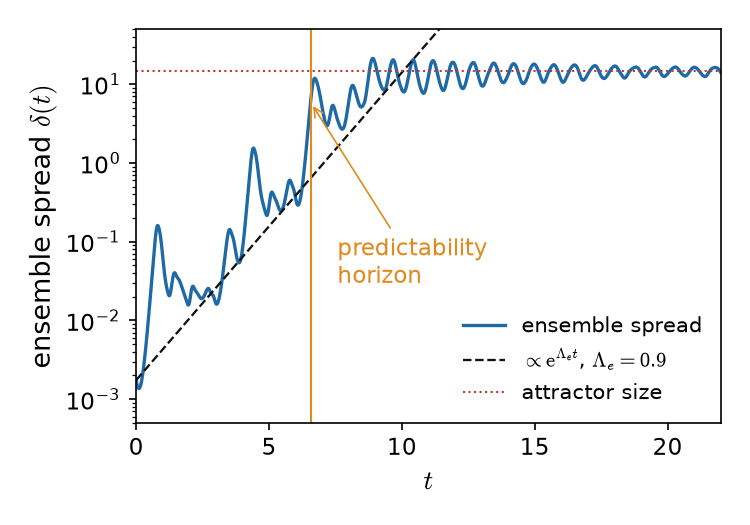
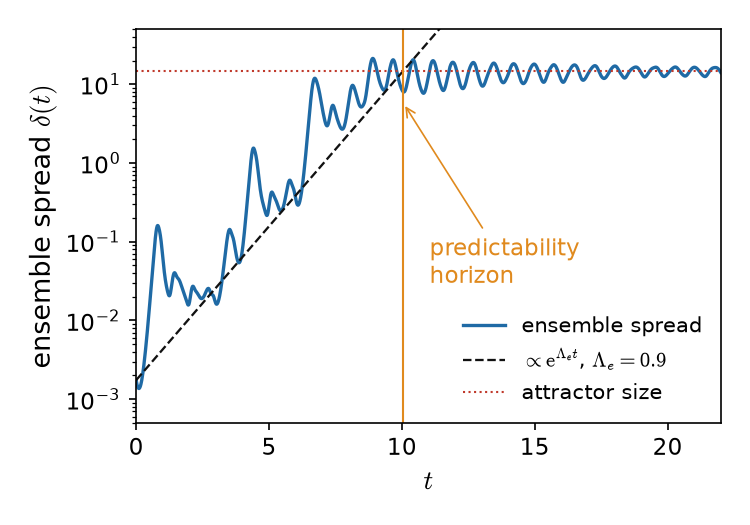
practice: horizon criterion in figure and text agree (PR-1)

diff --git a/creators/python/practice/fig_ensemble.py b/creators/python/practice/fig_ensemble.py
@@ -77,7 +77,9 @@ t = np.linspace(0, T, 2201)
 delta = spread(ensemble(x0, 1e-3, 600, t, seed=2))
 Le = 0.9
 sat = delta[t >= 18].mean()
-th = t[np.argmax(delta > 0.4 * sat)]
+# predictability horizon, as defined in the text: the time at which the
+# exponential growth delta(0) exp(Le t) reaches the size of the attractor
+th = np.log(sat / delta[0]) / Le
 
 fig, ax = plt.subplots(figsize=(5.0, 3.5))
 ax.semilogy(t, delta, color=C_ANA, lw=1.6, label="ensemble spread")
@@ -97,7 +99,14 @@ ax.legend(loc="lower right", fontsize=10)
 fig.tight_layout()
 fig.savefig(OUT / "practice_horizon.png", dpi=150)
 plt.close(fig)
-print(f"horizon: spread saturates at {sat:.2f}, 40% reached at t = {th:.1f}")
+print(f"horizon: delta(0) = {delta[0]:.2e}, spread saturates at {sat:.2f}; "
+      f"t_h = ln(sat/delta0)/Le = {th:.2f}")
+print(f"  (text numbers: ln(10/1e-3)/0.9 = {np.log(10 / 1e-3) / 0.9:.2f}; "
+      f"spread reaches 40% of saturation at t = {t[np.argmax(delta > 0.4 * sat)]:.2f})")
+for t1, t2 in [(0, 2), (2, 4), (4, 6), (6, 8), (8, 10)]:
+    i1, i2 = np.searchsorted(t, [t1, t2])
+    print(f"  growth rate of the spread over t in [{t1}, {t2}]: "
+          f"{np.log(delta[i2] / delta[i1]) / (t2 - t1):.2f}")
 
 # -- interactive: ensemble animation with its spread ------------------------
 tt = np.round(np.arange(0, 14.01, 0.25), 2)

diff --git a/python/practice.md b/python/practice.md
@@ -40,7 +40,7 @@ after which the forecast retains no information about the specific initial condi
 
 Since the initial state is never known exactly, the honest response is to abandon the single deterministic forecast and to propagate instead a whole *cloud* of initial conditions, each an equally plausible estimate of the true state. This is the idea of *ensemble forecasting*. Rather than one trajectory, one integrates many, and reads off the forecast not as a single number but as the distribution of the ensemble. The butterfly effect thereby ceases to be a curiosity and becomes an operational quantity: the *spread* of the ensemble is the forecast's own estimate of its uncertainty.
 
-{numref}`fig:practice:ensemble` shows a Lorenz ensemble: a tight blob of initial conditions is stretched into a filament along the attractor and, by $t=8$, smeared across it entirely. The blob's growth is quantified in {numref}`fig:practice:horizon`, which tracks the ensemble spread $\delta(t)$. It grows exponentially at the rate $\Lambda_e = 0.9$ set by the Lyapunov analysis, until it saturates at the size of the attractor. The time at which the spread becomes an appreciable fraction of the attractor is the predictability horizon: beyond it, the ensemble members are effectively uncorrelated and only the climatological distribution remains.
+{numref}`fig:practice:ensemble` shows a Lorenz ensemble: a tight blob of initial conditions is stretched into a filament along the attractor and, by $t=8$, smeared across it entirely. The blob's growth is quantified in {numref}`fig:practice:horizon`, which tracks the ensemble spread $\delta(t)$. It grows exponentially at the rate $\Lambda_e = 0.9$ set by the Lyapunov analysis, until it saturates at the size of the attractor. The predictability horizon is the time at which this exponential growth, extrapolated from the initial spread, reaches the size of the attractor, the same criterion as in the estimate above: in the figure $\delta(0) = 1.7\cdot 10^{-3}$ (the root-mean-square size of a blob with $10^{-3}$ per component) and the attractor size is $\delta_{\text{att}} \approx 15$, so that $t_{\text{h}} = 10.0$. The measured spread does not follow the dashed line exactly: its growth rate, measured over windows of two time units, fluctuates between 0.75 and 1.4 before saturating, because the blob is not aligned with the most unstable direction and the local stretching rate varies along the attractor (compare the local rates in chapter {numref}`chap:cont3d`). Beyond the horizon, the ensemble members are effectively uncorrelated and only the climatological distribution remains.
 
 ```{figure} _static/practice/practice_ensemble.png
 :name: fig:practice:ensemble
